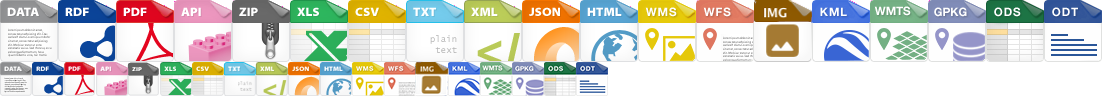
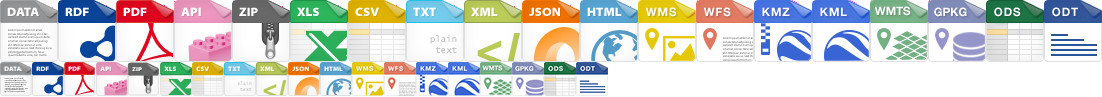
new version

Changed region(s): [[0.6788, 0.0, 0.7405, 0.6495], [0.3702, 0.6186, 0.4319, 0.9897]]

diff --git a/ckanext/hro_theme/fanstatic/hro_theme.css b/ckanext/hro_theme/fanstatic/hro_theme.css
@@ -315,9 +315,10 @@ a.tag:hover {
 .format-label[data-format*=ecw],
 .format-label[data-format=geotiff],
 .format-label[data-format*=geotiff] {
+  background: url(img/alt-icons.png) no-repeat 0 0;
   width: 32px;
   height: 35px;
-  background-position: -416px -62px;
+  background-position: -352px -62px;
 }
 
 .label[data-format=ecw],
@@ -380,6 +381,19 @@ a.tag:hover {
   background-color: #696969;
 }
 
+.format-label[data-format=wcs],
+.format-label[data-format*=wcs] {
+  background: url(img/wcs-icon.png) no-repeat 0 0;
+  width: 32px;
+  height: 35px;
+  background-position: 0 -62px;
+}
+
+.label[data-format=wcs],
+.label[data-format*=wcs] {
+  background-color: #337794;
+}
+
 .format-label[data-format=wfs],
 .format-label[data-format*=wfs],
 .format-label[data-format="inspire download service"],
@@ -429,17 +443,4 @@ a.tag:hover {
 
 .label[data-format*=xls] {
   background-color: #2db55e;
-}
-
-.format-label[data-format=wcs],
-.format-label[data-format*=wcs] {
-  width: 32px;
-  height: 35px;
-  background: url(img/wcs-icon.png) no-repeat 0 0;
-  background-position: 0 -62px;
-}
-
-.label[data-format=wcs],
-.label[data-format*=wcs] {
-  background-color: #337794;
 }

diff --git a/setup.py b/setup.py
@@ -15,7 +15,7 @@ setup(
     # Versions should comply with PEP440.  For a discussion on single-sourcing
     # the version across setup.py and the project code, see
     # http://packaging.python.org/en/latest/tutorial.html#version
-    version='1.2.2',
+    version='1.3.0',
 
     description='''A custom theme for OpenData.HRO, the open data portal of the municipality of Rostock''',
     long_description=long_description,
